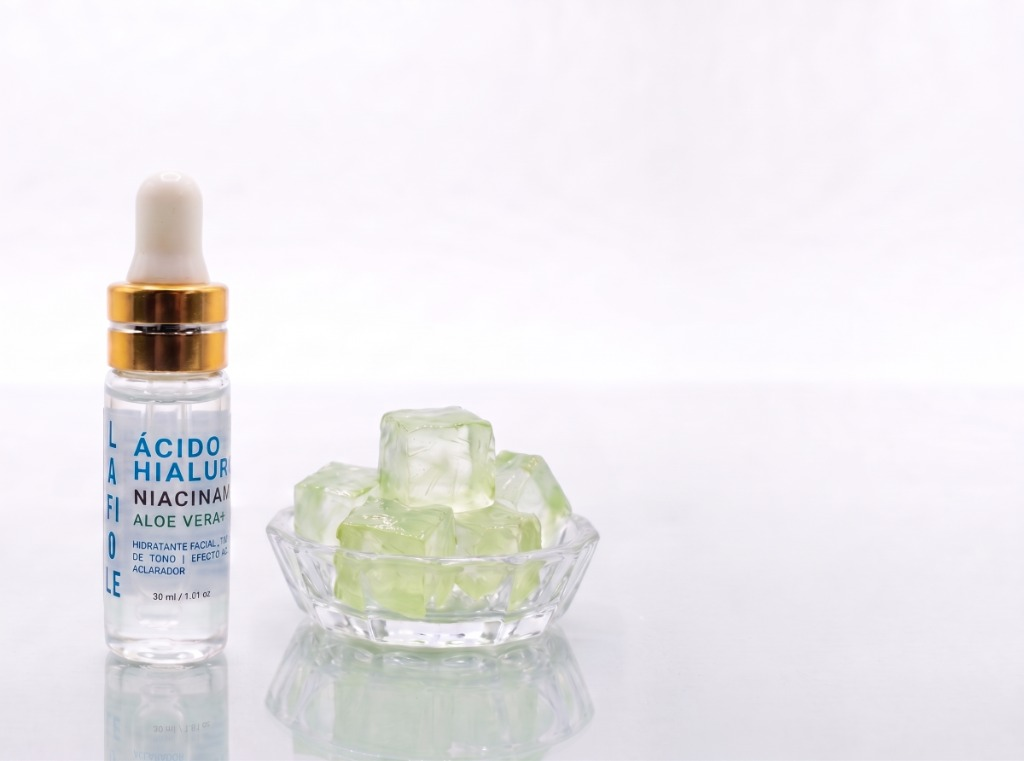
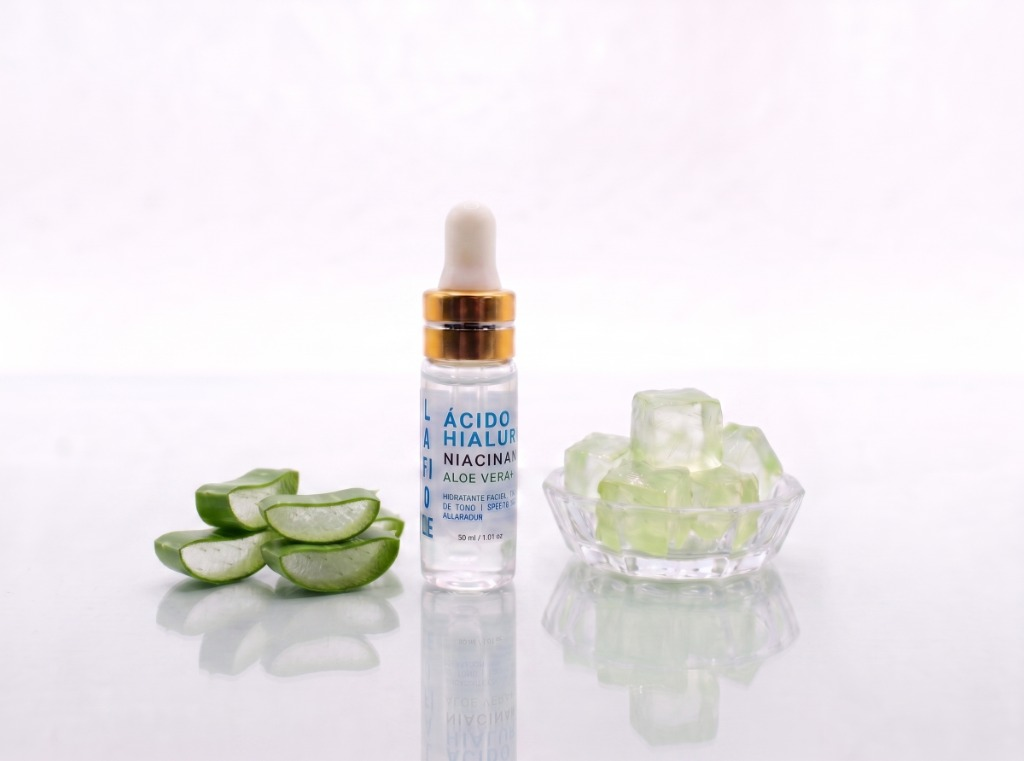
Actualizar imagen de Aloe Vera con composición completa (frasco, hojas y gel)

Changed region(s): [[0.0938, 0.2418, 0.7812, 1.0]]

diff --git a/serum.html b/serum.html
@@ -8,7 +8,7 @@
   <link rel="preconnect" href="https://fonts.googleapis.com">
   <link rel="preconnect" href="https://fonts.gstatic.com" crossorigin>
   <link href="https://fonts.googleapis.com/css2?family=Montserrat:wght@300;400;500;600;700&family=Playfair+Display:ital,wght@0,500;0,600;0,700;1,400&display=swap" rel="stylesheet">
-  <link rel="stylesheet" href="styles.css?v=3.0">
+  <link rel="stylesheet" href="styles.css?v=3.1">
 </head>
 <body>
 
